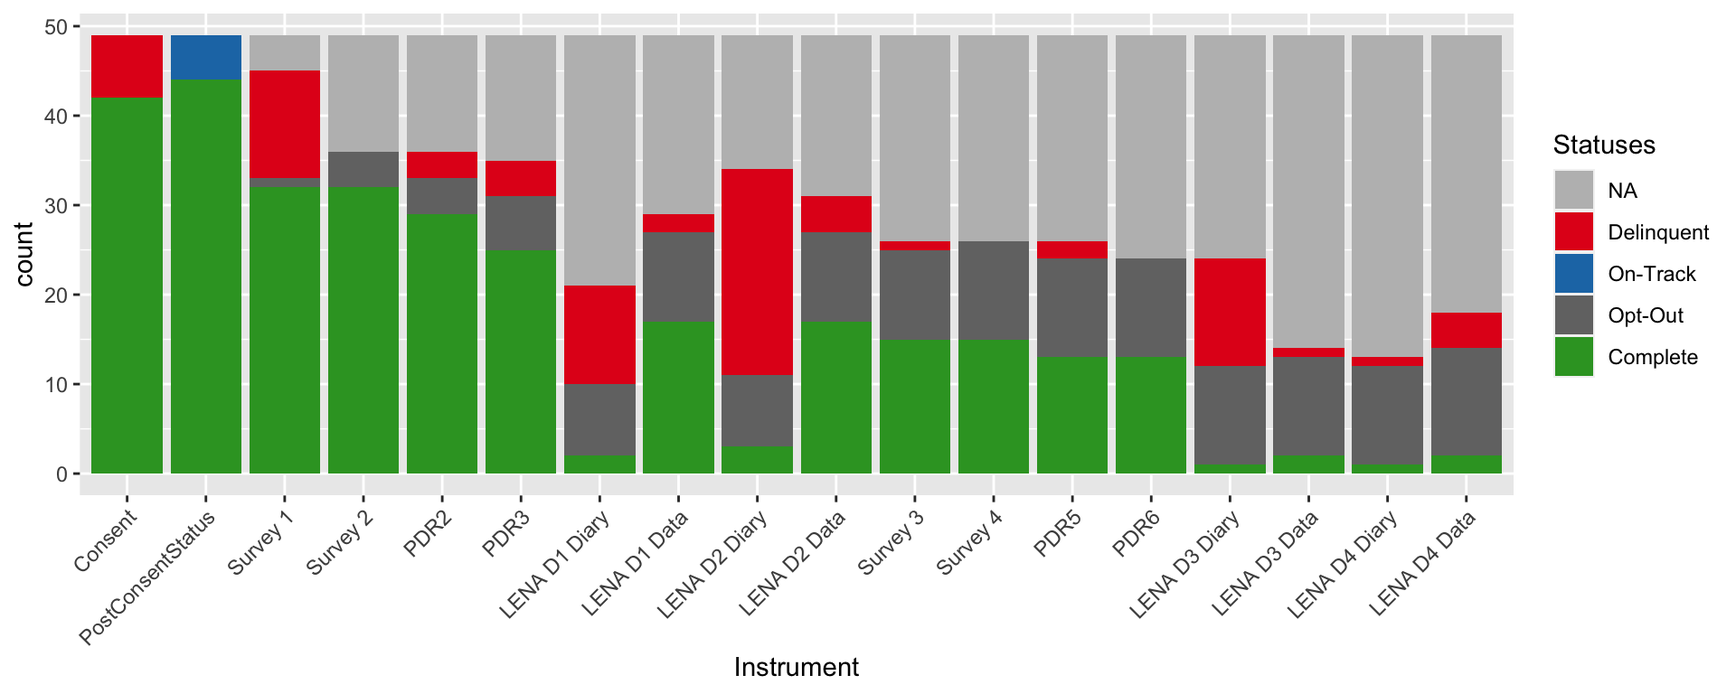
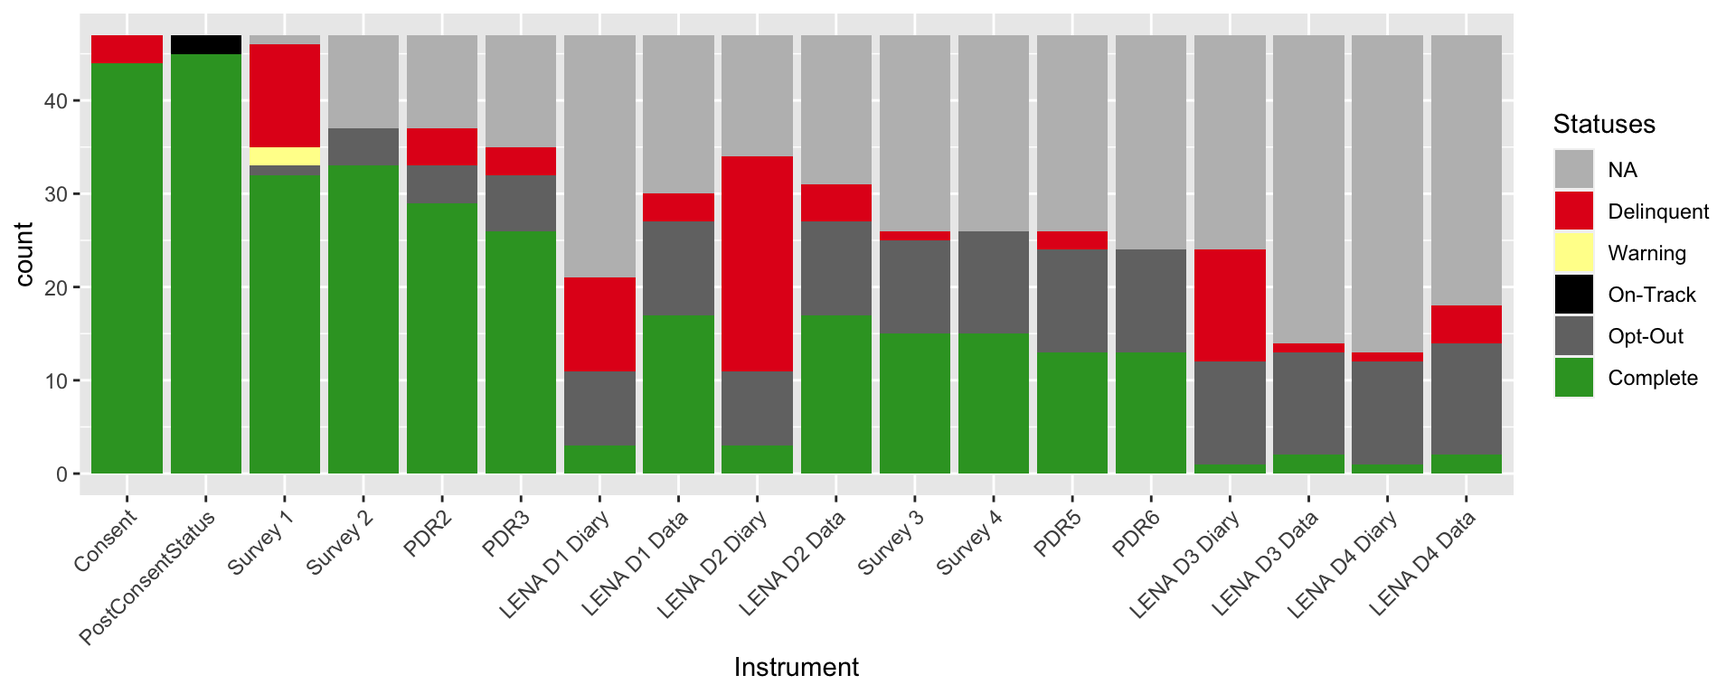
Update consents, and simplify chart code

diff --git a/_site/reports.html b/_site/reports.html
@@ -399,7 +399,7 @@ $(document).ready(function () {
 </div>
 <center>
 <div id="htmlwidget-2e17466358a46d139971" style="width:960px;height:384px;" class="plotly html-widget"></div>
-<script type="application/json" data-for="htmlwidget-2e17466358a46d139971">{"x":{"data":[{"x":[1594210295,1595855440,1595947129,1596636699,1597147658,1597402867,1597741838,1598436608,1598538979,1598541299,1598955066,1599570320,1600250194,1600255992,1600355481,1600863340,1601302221,1601566658,1602239005,1603368728,1603379955,1603977413,1604491899,1604751373,1605089156,1605170346,1605179257,1605721538,1605872792,1607016682,1607085091,1607472000,1607644800,1607687486,1609891200,1609897301,1611187200,1611878400,1612396800,1612396800,1612396800,1611878400,1611187200,1609897301,1609891200,1607687486,1607644800,1607472000,1607085091,1607016682,1605872792,1605721538,1605179257,1605170346,1605089156,1604751373,1604491899,1603977413,1603379955,1603368728,1602239005,1601566658,1601302221,1600863340,1600355481,1600255992,1600250194,1599570320,1598955066,1598541299,1598538979,1598436608,1597741838,1597402867,1597147658,1596636699,1595947129,1595855440,1594210295,1594210295],"y":[0,0,0,0,0,0,0,0,0,0,0,0,0,0,0,0,0,0,0,0,0,0,0,0,0,0,0,0,0,0,0,0,0,0,0,0,0,0,0,0,39,38,37,36,35,34,33,32,31,30,29,28,27,26,25,24,23,22,21,20,19,18,17,16,15,14,13,12,11,10,9,8,7,6,5,4,3,2,1,0],"text":["InformedConsent: 2020-07-08 19:11:35<br />Cumulative:  1","InformedConsent: 2020-07-27 20:10:40<br />Cumulative:  2","InformedConsent: 2020-07-28 21:38:49<br />Cumulative:  3","InformedConsent: 2020-08-05 21:11:39<br />Cumulative:  4","InformedConsent: 2020-08-11 19:07:38<br />Cumulative:  5","InformedConsent: 2020-08-14 18:01:07<br />Cumulative:  6","InformedConsent: 2020-08-18 16:10:38<br />Cumulative:  7","InformedConsent: 2020-08-26 17:10:08<br />Cumulative:  8","InformedConsent: 2020-08-27 21:36:19<br />Cumulative:  9","InformedConsent: 2020-08-27 22:14:59<br />Cumulative: 10","InformedConsent: 2020-09-01 17:11:06<br />Cumulative: 11","InformedConsent: 2020-09-08 20:05:20<br />Cumulative: 12","InformedConsent: 2020-09-16 16:56:34<br />Cumulative: 13","InformedConsent: 2020-09-16 18:33:12<br />Cumulative: 14","InformedConsent: 2020-09-17 22:11:21<br />Cumulative: 15","InformedConsent: 2020-09-23 19:15:40<br />Cumulative: 16","InformedConsent: 2020-09-28 21:10:21<br />Cumulative: 17","InformedConsent: 2020-10-01 22:37:38<br />Cumulative: 18","InformedConsent: 2020-10-09 17:23:25<br />Cumulative: 19","InformedConsent: 2020-10-22 19:12:08<br />Cumulative: 20","InformedConsent: 2020-10-22 22:19:15<br />Cumulative: 21","InformedConsent: 2020-10-29 20:16:53<br />Cumulative: 22","InformedConsent: 2020-11-04 20:11:39<br />Cumulative: 23","InformedConsent: 2020-11-07 20:16:13<br />Cumulative: 24","InformedConsent: 2020-11-11 18:05:56<br />Cumulative: 25","InformedConsent: 2020-11-12 16:39:06<br />Cumulative: 26","InformedConsent: 2020-11-12 19:07:37<br />Cumulative: 27","InformedConsent: 2020-11-19 01:45:38<br />Cumulative: 28","InformedConsent: 2020-11-20 19:46:32<br />Cumulative: 29","InformedConsent: 2020-12-04 01:31:22<br />Cumulative: 30","InformedConsent: 2020-12-04 20:31:31<br />Cumulative: 31","InformedConsent: 2020-12-09 08:00:00<br />Cumulative: 32","InformedConsent: 2020-12-11 08:00:00<br />Cumulative: 33","InformedConsent: 2020-12-11 19:51:26<br />Cumulative: 34","InformedConsent: 2021-01-06 08:00:00<br />Cumulative: 35","InformedConsent: 2021-01-06 09:41:41<br />Cumulative: 36","InformedConsent: 2021-01-21 08:00:00<br />Cumulative: 37","InformedConsent: 2021-01-29 08:00:00<br />Cumulative: 38","InformedConsent: 2021-02-04 08:00:00<br />Cumulative: 39","InformedConsent: 2021-02-04 08:00:00<br />Cumulative: 39","InformedConsent: 2021-02-04 08:00:00<br />Cumulative: 39","InformedConsent: 2021-01-29 08:00:00<br />Cumulative: 38","InformedConsent: 2021-01-21 08:00:00<br />Cumulative: 37","InformedConsent: 2021-01-06 09:41:41<br />Cumulative: 36","InformedConsent: 2021-01-06 08:00:00<br />Cumulative: 35","InformedConsent: 2020-12-11 19:51:26<br />Cumulative: 34","InformedConsent: 2020-12-11 08:00:00<br />Cumulative: 33","InformedConsent: 2020-12-09 08:00:00<br />Cumulative: 32","InformedConsent: 2020-12-04 20:31:31<br />Cumulative: 31","InformedConsent: 2020-12-04 01:31:22<br />Cumulative: 30","InformedConsent: 2020-11-20 19:46:32<br />Cumulative: 29","InformedConsent: 2020-11-19 01:45:38<br />Cumulative: 28","InformedConsent: 2020-11-12 19:07:37<br />Cumulative: 27","InformedConsent: 2020-11-12 16:39:06<br />Cumulative: 26","InformedConsent: 2020-11-11 18:05:56<br />Cumulative: 25","InformedConsent: 2020-11-07 20:16:13<br />Cumulative: 24","InformedConsent: 2020-11-04 20:11:39<br />Cumulative: 23","InformedConsent: 2020-10-29 20:16:53<br />Cumulative: 22","InformedConsent: 2020-10-22 22:19:15<br />Cumulative: 21","InformedConsent: 2020-10-22 19:12:08<br />Cumulative: 20","InformedConsent: 2020-10-09 17:23:25<br />Cumulative: 19","InformedConsent: 2020-10-01 22:37:38<br />Cumulative: 18","InformedConsent: 2020-09-28 21:10:21<br />Cumulative: 17","InformedConsent: 2020-09-23 19:15:40<br />Cumulative: 16","InformedConsent: 2020-09-17 22:11:21<br />Cumulative: 15","InformedConsent: 2020-09-16 18:33:12<br />Cumulative: 14","InformedConsent: 2020-09-16 16:56:34<br />Cumulative: 13","InformedConsent: 2020-09-08 20:05:20<br />Cumulative: 12","InformedConsent: 2020-09-01 17:11:06<br />Cumulative: 11","InformedConsent: 2020-08-27 22:14:59<br />Cumulative: 10","InformedConsent: 2020-08-27 21:36:19<br />Cumulative:  9","InformedConsent: 2020-08-26 17:10:08<br />Cumulative:  8","InformedConsent: 2020-08-18 16:10:38<br />Cumulative:  7","InformedConsent: 2020-08-14 18:01:07<br />Cumulative:  6","InformedConsent: 2020-08-11 19:07:38<br />Cumulative:  5","InformedConsent: 2020-08-05 21:11:39<br />Cumulative:  4","InformedConsent: 2020-07-28 21:38:49<br />Cumulative:  3","InformedConsent: 2020-07-27 20:10:40<br />Cumulative:  2","InformedConsent: 2020-07-08 19:11:35<br />Cumulative:  1","InformedConsent: 2020-07-08 19:11:35<br />Cumulative:  1"],"type":"scatter","mode":"lines","line":{"width":1.88976377952756,"color":"transparent","dash":"solid"},"fill":"toself","fillcolor":"rgba(105,179,162,0.5)","hoveron":"points","showlegend":false,"xaxis":"x","yaxis":"y","hoverinfo":"text","frame":null},{"x":[1594210295,1595855440,1595947129,1596636699,1597147658,1597402867,1597741838,1598436608,1598538979,1598541299,1598955066,1599570320,1600250194,1600255992,1600355481,1600863340,1601302221,1601566658,1602239005,1603368728,1603379955,1603977413,1604491899,1604751373,1605089156,1605170346,1605179257,1605721538,1605872792,1607016682,1607085091,1607472000,1607644800,1607687486,1609891200,1609897301,1611187200,1611878400,1612396800,null],"y":[1,2,3,4,5,6,7,8,9,10,11,12,13,14,15,16,17,18,19,20,21,22,23,24,25,26,27,28,29,30,31,32,33,34,35,36,37,38,39,48],"text":["InformedConsent: 2020-07-08 12:11:35<br />Cumulative:  1","InformedConsent: 2020-07-27 13:10:40<br />Cumulative:  2","InformedConsent: 2020-07-28 14:38:49<br />Cumulative:  3","InformedConsent: 2020-08-05 14:11:39<br />Cumulative:  4","InformedConsent: 2020-08-11 12:07:38<br />Cumulative:  5","InformedConsent: 2020-08-14 11:01:07<br />Cumulative:  6","InformedConsent: 2020-08-18 09:10:38<br />Cumulative:  7","InformedConsent: 2020-08-26 10:10:08<br />Cumulative:  8","InformedConsent: 2020-08-27 14:36:19<br />Cumulative:  9","InformedConsent: 2020-08-27 15:14:59<br />Cumulative: 10","InformedConsent: 2020-09-01 10:11:06<br />Cumulative: 11","InformedConsent: 2020-09-08 13:05:20<br />Cumulative: 12","InformedConsent: 2020-09-16 09:56:34<br />Cumulative: 13","InformedConsent: 2020-09-16 11:33:12<br />Cumulative: 14","InformedConsent: 2020-09-17 15:11:21<br />Cumulative: 15","InformedConsent: 2020-09-23 12:15:40<br />Cumulative: 16","InformedConsent: 2020-09-28 14:10:21<br />Cumulative: 17","InformedConsent: 2020-10-01 15:37:38<br />Cumulative: 18","InformedConsent: 2020-10-09 10:23:25<br />Cumulative: 19","InformedConsent: 2020-10-22 12:12:08<br />Cumulative: 20","InformedConsent: 2020-10-22 15:19:15<br />Cumulative: 21","InformedConsent: 2020-10-29 13:16:53<br />Cumulative: 22","InformedConsent: 2020-11-04 12:11:39<br />Cumulative: 23","InformedConsent: 2020-11-07 12:16:13<br />Cumulative: 24","InformedConsent: 2020-11-11 10:05:56<br />Cumulative: 25","InformedConsent: 2020-11-12 08:39:06<br />Cumulative: 26","InformedConsent: 2020-11-12 11:07:37<br />Cumulative: 27","InformedConsent: 2020-11-18 17:45:38<br />Cumulative: 28","InformedConsent: 2020-11-20 11:46:32<br />Cumulative: 29","InformedConsent: 2020-12-03 17:31:22<br />Cumulative: 30","InformedConsent: 2020-12-04 12:31:31<br />Cumulative: 31","InformedConsent: 2020-12-09 00:00:00<br />Cumulative: 32","InformedConsent: 2020-12-11 00:00:00<br />Cumulative: 33","InformedConsent: 2020-12-11 11:51:26<br />Cumulative: 34","InformedConsent: 2021-01-06 00:00:00<br />Cumulative: 35","InformedConsent: 2021-01-06 01:41:41<br />Cumulative: 36","InformedConsent: 2021-01-21 00:00:00<br />Cumulative: 37","InformedConsent: 2021-01-29 00:00:00<br />Cumulative: 38","InformedConsent: 2021-02-04 00:00:00<br />Cumulative: 39","InformedConsent: NA<br />Cumulative: 48"],"type":"scatter","mode":"lines","line":{"width":1.88976377952756,"color":"rgba(105,179,162,1)","dash":"solid"},"hoveron":"points","showlegend":false,"xaxis":"x","yaxis":"y","hoverinfo":"text","frame":null}],"layout":{"margin":{"t":65.813200498132,"r":39.8505603985056,"b":80.8634288086343,"l":70.9007887090079},"font":{"color":"rgba(0,0,0,1)","family":"Arial Narrow","size":15.2760481527605},"xaxis":{"domain":[0,1],"automargin":true,"type":"linear","autorange":false,"range":[1593300969.75,1613306125.25],"tickmode":"array","ticktext":["Jul","Oct","Jan"],"tickvals":[1593561600,1601510400,1609459200],"categoryorder":"array","categoryarray":["Jul","Oct","Jan"],"nticks":null,"ticks":"","tickcolor":null,"ticklen":3.81901203819012,"tickwidth":0,"showticklabels":true,"tickfont":{"color":"rgba(77,77,77,1)","family":"Arial Narrow","size":15.2760481527605},"tickangle":-0,"showline":false,"linecolor":null,"linewidth":0,"showgrid":true,"gridcolor":"rgba(204,204,204,1)","gridwidth":0.265670402656704,"zeroline":false,"anchor":"y","title":{"text":"Time","font":{"color":"rgba(0,0,0,1)","family":"Arial Narrow","size":11.9551681195517}},"hoverformat":".2f"},"yaxis":{"domain":[0,1],"automargin":true,"type":"linear","autorange":false,"range":[-2.4,50.4],"tickmode":"array","ticktext":["0","10","20","30","40","50"],"tickvals":[0,10,20,30,40,50],"categoryorder":"array","categoryarray":["0","10","20","30","40","50"],"nticks":null,"ticks":"","tickcolor":null,"ticklen":3.81901203819012,"tickwidth":0,"showticklabels":true,"tickfont":{"color":"rgba(77,77,77,1)","family":"Arial Narrow","size":15.2760481527605},"tickangle":-0,"showline":false,"linecolor":null,"linewidth":0,"showgrid":true,"gridcolor":"rgba(204,204,204,1)","gridwidth":0.265670402656704,"zeroline":false,"anchor":"x","title":{"text":"Dyad Count","font":{"color":"rgba(0,0,0,1)","family":"Arial Narrow","size":11.9551681195517}},"hoverformat":".2f"},"shapes":[{"type":"rect","fillcolor":null,"line":{"color":null,"width":0,"linetype":[]},"yref":"paper","xref":"paper","x0":0,"x1":1,"y0":0,"y1":1}],"showlegend":false,"legend":{"bgcolor":null,"bordercolor":null,"borderwidth":0,"font":{"color":"rgba(0,0,0,1)","family":"Arial Narrow","size":12.2208385222084}},"hovermode":"closest","barmode":"relative"},"config":{"doubleClick":"reset","showSendToCloud":false},"source":"A","attrs":{"39827eefb3e0":{"x":{},"y":{},"type":"scatter"},"39822b0a783b":{"x":{},"y":{}}},"cur_data":"39827eefb3e0","visdat":{"39827eefb3e0":["function (y) ","x"],"39822b0a783b":["function (y) ","x"]},"highlight":{"on":"plotly_click","persistent":false,"dynamic":false,"selectize":false,"opacityDim":0.2,"selected":{"opacity":1},"debounce":0},"shinyEvents":["plotly_hover","plotly_click","plotly_selected","plotly_relayout","plotly_brushed","plotly_brushing","plotly_clickannotation","plotly_doubleclick","plotly_deselect","plotly_afterplot","plotly_sunburstclick"],"base_url":"https://plot.ly"},"evals":[],"jsHooks":[]}</script><img src="reports_files/figure-html/SEAL%20Conditions%20Plot-2.png" width="960" />
+<script type="application/json" data-for="htmlwidget-2e17466358a46d139971">{"x":{"data":[{"x":[1594210295,1595855440,1595947129,1596636699,1597147658,1597190400,1597276800,1597402867,1598436608,1598538979,1598541299,1598955066,1599570320,1600250194,1600255992,1600300800,1600355481,1600387200,1600863340,1601302221,1601566658,1602239005,1603368728,1603379955,1603670400,1603977413,1604491899,1604751373,1605089156,1605179257,1605721538,1605872792,1607040000,1607472000,1607644800,1607687486,1609891200,1609897301,1611187200,1611878400,1612396800,1612396800,1612396800,1611878400,1611187200,1609897301,1609891200,1607687486,1607644800,1607472000,1607040000,1605872792,1605721538,1605179257,1605089156,1604751373,1604491899,1603977413,1603670400,1603379955,1603368728,1602239005,1601566658,1601302221,1600863340,1600387200,1600355481,1600300800,1600255992,1600250194,1599570320,1598955066,1598541299,1598538979,1598436608,1597402867,1597276800,1597190400,1597147658,1596636699,1595947129,1595855440,1594210295,1594210295],"y":[0,0,0,0,0,0,0,0,0,0,0,0,0,0,0,0,0,0,0,0,0,0,0,0,0,0,0,0,0,0,0,0,0,0,0,0,0,0,0,0,0,0,42,41,40,39,38,37,36,35,34,33,32,31,30,29,28,27,26,25,24,23,22,21,20,19,18,17,16,15,14,13,12,11,10,9,8,6,5,4,3,2,1,0],"text":["InformedConsent: 2020-07-08 19:11:35<br />Cumulative:  1","InformedConsent: 2020-07-27 20:10:40<br />Cumulative:  2","InformedConsent: 2020-07-28 21:38:49<br />Cumulative:  3","InformedConsent: 2020-08-05 21:11:39<br />Cumulative:  4","InformedConsent: 2020-08-11 19:07:38<br />Cumulative:  5","InformedConsent: 2020-08-12 07:00:00<br />Cumulative:  6","InformedConsent: 2020-08-13 07:00:00<br />Cumulative:  8","InformedConsent: 2020-08-14 18:01:07<br />Cumulative:  9","InformedConsent: 2020-08-26 17:10:08<br />Cumulative: 10","InformedConsent: 2020-08-27 21:36:19<br />Cumulative: 11","InformedConsent: 2020-08-27 22:14:59<br />Cumulative: 12","InformedConsent: 2020-09-01 17:11:06<br />Cumulative: 13","InformedConsent: 2020-09-08 20:05:20<br />Cumulative: 14","InformedConsent: 2020-09-16 16:56:34<br />Cumulative: 15","InformedConsent: 2020-09-16 18:33:12<br />Cumulative: 16","InformedConsent: 2020-09-17 07:00:00<br />Cumulative: 17","InformedConsent: 2020-09-17 22:11:21<br />Cumulative: 18","InformedConsent: 2020-09-18 07:00:00<br />Cumulative: 19","InformedConsent: 2020-09-23 19:15:40<br />Cumulative: 20","InformedConsent: 2020-09-28 21:10:21<br />Cumulative: 21","InformedConsent: 2020-10-01 22:37:38<br />Cumulative: 22","InformedConsent: 2020-10-09 17:23:25<br />Cumulative: 23","InformedConsent: 2020-10-22 19:12:08<br />Cumulative: 24","InformedConsent: 2020-10-22 22:19:15<br />Cumulative: 25","InformedConsent: 2020-10-26 07:00:00<br />Cumulative: 26","InformedConsent: 2020-10-29 20:16:53<br />Cumulative: 27","InformedConsent: 2020-11-04 20:11:39<br />Cumulative: 28","InformedConsent: 2020-11-07 20:16:13<br />Cumulative: 29","InformedConsent: 2020-11-11 18:05:56<br />Cumulative: 30","InformedConsent: 2020-11-12 19:07:37<br />Cumulative: 31","InformedConsent: 2020-11-19 01:45:38<br />Cumulative: 32","InformedConsent: 2020-11-20 19:46:32<br />Cumulative: 33","InformedConsent: 2020-12-04 08:00:00<br />Cumulative: 34","InformedConsent: 2020-12-09 08:00:00<br />Cumulative: 35","InformedConsent: 2020-12-11 08:00:00<br />Cumulative: 36","InformedConsent: 2020-12-11 19:51:26<br />Cumulative: 37","InformedConsent: 2021-01-06 08:00:00<br />Cumulative: 38","InformedConsent: 2021-01-06 09:41:41<br />Cumulative: 39","InformedConsent: 2021-01-21 08:00:00<br />Cumulative: 40","InformedConsent: 2021-01-29 08:00:00<br />Cumulative: 41","InformedConsent: 2021-02-04 08:00:00<br />Cumulative: 42","InformedConsent: 2021-02-04 08:00:00<br />Cumulative: 42","InformedConsent: 2021-02-04 08:00:00<br />Cumulative: 42","InformedConsent: 2021-01-29 08:00:00<br />Cumulative: 41","InformedConsent: 2021-01-21 08:00:00<br />Cumulative: 40","InformedConsent: 2021-01-06 09:41:41<br />Cumulative: 39","InformedConsent: 2021-01-06 08:00:00<br />Cumulative: 38","InformedConsent: 2020-12-11 19:51:26<br />Cumulative: 37","InformedConsent: 2020-12-11 08:00:00<br />Cumulative: 36","InformedConsent: 2020-12-09 08:00:00<br />Cumulative: 35","InformedConsent: 2020-12-04 08:00:00<br />Cumulative: 34","InformedConsent: 2020-11-20 19:46:32<br />Cumulative: 33","InformedConsent: 2020-11-19 01:45:38<br />Cumulative: 32","InformedConsent: 2020-11-12 19:07:37<br />Cumulative: 31","InformedConsent: 2020-11-11 18:05:56<br />Cumulative: 30","InformedConsent: 2020-11-07 20:16:13<br />Cumulative: 29","InformedConsent: 2020-11-04 20:11:39<br />Cumulative: 28","InformedConsent: 2020-10-29 20:16:53<br />Cumulative: 27","InformedConsent: 2020-10-26 07:00:00<br />Cumulative: 26","InformedConsent: 2020-10-22 22:19:15<br />Cumulative: 25","InformedConsent: 2020-10-22 19:12:08<br />Cumulative: 24","InformedConsent: 2020-10-09 17:23:25<br />Cumulative: 23","InformedConsent: 2020-10-01 22:37:38<br />Cumulative: 22","InformedConsent: 2020-09-28 21:10:21<br />Cumulative: 21","InformedConsent: 2020-09-23 19:15:40<br />Cumulative: 20","InformedConsent: 2020-09-18 07:00:00<br />Cumulative: 19","InformedConsent: 2020-09-17 22:11:21<br />Cumulative: 18","InformedConsent: 2020-09-17 07:00:00<br />Cumulative: 17","InformedConsent: 2020-09-16 18:33:12<br />Cumulative: 16","InformedConsent: 2020-09-16 16:56:34<br />Cumulative: 15","InformedConsent: 2020-09-08 20:05:20<br />Cumulative: 14","InformedConsent: 2020-09-01 17:11:06<br />Cumulative: 13","InformedConsent: 2020-08-27 22:14:59<br />Cumulative: 12","InformedConsent: 2020-08-27 21:36:19<br />Cumulative: 11","InformedConsent: 2020-08-26 17:10:08<br />Cumulative: 10","InformedConsent: 2020-08-14 18:01:07<br />Cumulative:  9","InformedConsent: 2020-08-13 07:00:00<br />Cumulative:  8","InformedConsent: 2020-08-12 07:00:00<br />Cumulative:  6","InformedConsent: 2020-08-11 19:07:38<br />Cumulative:  5","InformedConsent: 2020-08-05 21:11:39<br />Cumulative:  4","InformedConsent: 2020-07-28 21:38:49<br />Cumulative:  3","InformedConsent: 2020-07-27 20:10:40<br />Cumulative:  2","InformedConsent: 2020-07-08 19:11:35<br />Cumulative:  1","InformedConsent: 2020-07-08 19:11:35<br />Cumulative:  1"],"type":"scatter","mode":"lines","line":{"width":1.88976377952756,"color":"transparent","dash":"solid"},"fill":"toself","fillcolor":"rgba(105,179,162,0.5)","hoveron":"points","showlegend":false,"xaxis":"x","yaxis":"y","hoverinfo":"text","frame":null},{"x":[1594210295,1595855440,1595947129,1596636699,1597147658,1597190400,1597276800,1597402867,1598436608,1598538979,1598541299,1598955066,1599570320,1600250194,1600255992,1600300800,1600355481,1600387200,1600863340,1601302221,1601566658,1602239005,1603368728,1603379955,1603670400,1603977413,1604491899,1604751373,1605089156,1605179257,1605721538,1605872792,1607040000,1607472000,1607644800,1607687486,1609891200,1609897301,1611187200,1611878400,1612396800,null],"y":[1,2,3,4,5,6,8,9,10,11,12,13,14,15,16,17,18,19,20,21,22,23,24,25,26,27,28,29,30,31,32,33,34,35,36,37,38,39,40,41,42,48],"text":["InformedConsent: 2020-07-08 12:11:35<br />Cumulative:  1","InformedConsent: 2020-07-27 13:10:40<br />Cumulative:  2","InformedConsent: 2020-07-28 14:38:49<br />Cumulative:  3","InformedConsent: 2020-08-05 14:11:39<br />Cumulative:  4","InformedConsent: 2020-08-11 12:07:38<br />Cumulative:  5","InformedConsent: 2020-08-12 00:00:00<br />Cumulative:  6","InformedConsent: 2020-08-13 00:00:00<br />Cumulative:  8","InformedConsent: 2020-08-14 11:01:07<br />Cumulative:  9","InformedConsent: 2020-08-26 10:10:08<br />Cumulative: 10","InformedConsent: 2020-08-27 14:36:19<br />Cumulative: 11","InformedConsent: 2020-08-27 15:14:59<br />Cumulative: 12","InformedConsent: 2020-09-01 10:11:06<br />Cumulative: 13","InformedConsent: 2020-09-08 13:05:20<br />Cumulative: 14","InformedConsent: 2020-09-16 09:56:34<br />Cumulative: 15","InformedConsent: 2020-09-16 11:33:12<br />Cumulative: 16","InformedConsent: 2020-09-17 00:00:00<br />Cumulative: 17","InformedConsent: 2020-09-17 15:11:21<br />Cumulative: 18","InformedConsent: 2020-09-18 00:00:00<br />Cumulative: 19","InformedConsent: 2020-09-23 12:15:40<br />Cumulative: 20","InformedConsent: 2020-09-28 14:10:21<br />Cumulative: 21","InformedConsent: 2020-10-01 15:37:38<br />Cumulative: 22","InformedConsent: 2020-10-09 10:23:25<br />Cumulative: 23","InformedConsent: 2020-10-22 12:12:08<br />Cumulative: 24","InformedConsent: 2020-10-22 15:19:15<br />Cumulative: 25","InformedConsent: 2020-10-26 00:00:00<br />Cumulative: 26","InformedConsent: 2020-10-29 13:16:53<br />Cumulative: 27","InformedConsent: 2020-11-04 12:11:39<br />Cumulative: 28","InformedConsent: 2020-11-07 12:16:13<br />Cumulative: 29","InformedConsent: 2020-11-11 10:05:56<br />Cumulative: 30","InformedConsent: 2020-11-12 11:07:37<br />Cumulative: 31","InformedConsent: 2020-11-18 17:45:38<br />Cumulative: 32","InformedConsent: 2020-11-20 11:46:32<br />Cumulative: 33","InformedConsent: 2020-12-04 00:00:00<br />Cumulative: 34","InformedConsent: 2020-12-09 00:00:00<br />Cumulative: 35","InformedConsent: 2020-12-11 00:00:00<br />Cumulative: 36","InformedConsent: 2020-12-11 11:51:26<br />Cumulative: 37","InformedConsent: 2021-01-06 00:00:00<br />Cumulative: 38","InformedConsent: 2021-01-06 01:41:41<br />Cumulative: 39","InformedConsent: 2021-01-21 00:00:00<br />Cumulative: 40","InformedConsent: 2021-01-29 00:00:00<br />Cumulative: 41","InformedConsent: 2021-02-04 00:00:00<br />Cumulative: 42","InformedConsent: NA<br />Cumulative: 48"],"type":"scatter","mode":"lines","line":{"width":1.88976377952756,"color":"rgba(105,179,162,1)","dash":"solid"},"hoveron":"points","showlegend":false,"xaxis":"x","yaxis":"y","hoverinfo":"text","frame":null}],"layout":{"margin":{"t":65.813200498132,"r":39.8505603985056,"b":80.8634288086343,"l":70.9007887090079},"font":{"color":"rgba(0,0,0,1)","family":"Arial Narrow","size":15.2760481527605},"xaxis":{"domain":[0,1],"automargin":true,"type":"linear","autorange":false,"range":[1593300969.75,1613306125.25],"tickmode":"array","ticktext":["Jul","Oct","Jan"],"tickvals":[1593561600,1601510400,1609459200],"categoryorder":"array","categoryarray":["Jul","Oct","Jan"],"nticks":null,"ticks":"","tickcolor":null,"ticklen":3.81901203819012,"tickwidth":0,"showticklabels":true,"tickfont":{"color":"rgba(77,77,77,1)","family":"Arial Narrow","size":15.2760481527605},"tickangle":-0,"showline":false,"linecolor":null,"linewidth":0,"showgrid":true,"gridcolor":"rgba(204,204,204,1)","gridwidth":0.265670402656704,"zeroline":false,"anchor":"y","title":{"text":"Time","font":{"color":"rgba(0,0,0,1)","family":"Arial Narrow","size":11.9551681195517}},"hoverformat":".2f"},"yaxis":{"domain":[0,1],"automargin":true,"type":"linear","autorange":false,"range":[-2.4,50.4],"tickmode":"array","ticktext":["0","10","20","30","40","50"],"tickvals":[0,10,20,30,40,50],"categoryorder":"array","categoryarray":["0","10","20","30","40","50"],"nticks":null,"ticks":"","tickcolor":null,"ticklen":3.81901203819012,"tickwidth":0,"showticklabels":true,"tickfont":{"color":"rgba(77,77,77,1)","family":"Arial Narrow","size":15.2760481527605},"tickangle":-0,"showline":false,"linecolor":null,"linewidth":0,"showgrid":true,"gridcolor":"rgba(204,204,204,1)","gridwidth":0.265670402656704,"zeroline":false,"anchor":"x","title":{"text":"Dyad Count","font":{"color":"rgba(0,0,0,1)","family":"Arial Narrow","size":11.9551681195517}},"hoverformat":".2f"},"shapes":[{"type":"rect","fillcolor":null,"line":{"color":null,"width":0,"linetype":[]},"yref":"paper","xref":"paper","x0":0,"x1":1,"y0":0,"y1":1}],"showlegend":false,"legend":{"bgcolor":null,"bordercolor":null,"borderwidth":0,"font":{"color":"rgba(0,0,0,1)","family":"Arial Narrow","size":12.2208385222084}},"hovermode":"closest","barmode":"relative"},"config":{"doubleClick":"reset","showSendToCloud":false},"source":"A","attrs":{"912116bcb142":{"x":{},"y":{},"type":"scatter"},"91213e196fb7":{"x":{},"y":{}}},"cur_data":"912116bcb142","visdat":{"912116bcb142":["function (y) ","x"],"91213e196fb7":["function (y) ","x"]},"highlight":{"on":"plotly_click","persistent":false,"dynamic":false,"selectize":false,"opacityDim":0.2,"selected":{"opacity":1},"debounce":0},"shinyEvents":["plotly_hover","plotly_click","plotly_selected","plotly_relayout","plotly_brushed","plotly_brushing","plotly_clickannotation","plotly_doubleclick","plotly_deselect","plotly_afterplot","plotly_sunburstclick"],"base_url":"https://plot.ly"},"evals":[],"jsHooks":[]}</script><img src="reports_files/figure-html/SEAL%20Conditions%20Plot-2.png" width="960" />
 <center>
 <div>
 

diff --git a/_site/enrollment.html b/_site/enrollment.html
@@ -389,21 +389,21 @@ $(document).ready(function () {
 <div class="btn-group btn-group-justified">
 <div class="btn-group">
 <button type="button" class="btn btn-outline-dark .w-100">
-<strong>Consents Complete</strong><br>42
+<strong>Consents Complete</strong><br>44
 </button>
 </div>
 <div class="btn-group">
 <button type="button" class="btn btn-outline-dark .w-100">
-<strong>Consents In Progress</strong><br>7
+<strong>Consents In Progress</strong><br>3
 </button>
 </div>
 </div>
 <div class="btn-group btn-group-justified">
 <div class="btn-group">
-<a href="#" class="btn btn-default"><strong>Post-Consent Complete</strong><br>37</a>
+<a href="#" class="btn btn-default"><strong>Post-Consent Complete</strong><br>42</a>
 </div>
 <div class="btn-group">
-<a href="#" class="btn btn-default"><strong>Post-Consent In Progress</strong><br>5</a>
+<a href="#" class="btn btn-default"><strong>Post-Consent In Progress</strong><br>2</a>
 </div>
 </div>
 <div class="btn-group btn-group-justified">
@@ -411,7 +411,7 @@ $(document).ready(function () {
 <a href="#" class="btn btn-primary"><strong>Wave 1 Complete</strong><br>3</a>
 </div>
 <div class="btn-group">
-<a href="#" class="btn btn-primary"><strong>Wave 1 In Progress</strong><br>24</a>
+<a href="#" class="btn btn-primary"><strong>Wave 1 In Progress</strong><br>26</a>
 </div>
 <div class="btn-group">
 <a href="#" class="btn btn-primary"><strong>Wave 1 Drop-Outs</strong><br> 9 </a>
@@ -455,7 +455,7 @@ $(document).ready(function () {
 <a href="#" class="btn btn-danger"><strong>Total Complete with Study</strong><br>TBD</a>
 </div>
 <div class="btn-group">
-<a href="#" class="btn btn-danger"><strong>Total In Progress</strong><br> 38 </a>
+<a href="#" class="btn btn-danger"><strong>Total In Progress</strong><br> 40 </a>
 </div>
 <div class="btn-group">
 <a href="#" class="btn btn-danger"><strong>Total Drop-Outs</strong><br>11</a>
@@ -502,7 +502,7 @@ NA
 Consent
 </td>
 <td style="text-align:right;">
-42
+44
 </td>
 <td style="text-align:right;">
 0
@@ -514,7 +514,7 @@ Consent
 0
 </td>
 <td style="text-align:right;">
-7
+3
 </td>
 <td style="text-align:right;">
 0
@@ -522,16 +522,16 @@ Consent
 </tr>
 <tr>
 <td style="text-align:left;">
-Post Consent
+PostConsentStatus
 </td>
 <td style="text-align:right;">
-44
+45
 </td>
 <td style="text-align:right;">
 0
 </td>
 <td style="text-align:right;">
-5
+2
 </td>
 <td style="text-align:right;">
 0
@@ -557,13 +557,13 @@ Survey 1
 0
 </td>
 <td style="text-align:right;">
-0
+2
 </td>
 <td style="text-align:right;">
-12
+11
 </td>
 <td style="text-align:right;">
-4
+1
 </td>
 </tr>
 <tr>
@@ -571,7 +571,7 @@ Survey 1
 Survey 2
 </td>
 <td style="text-align:right;">
-32
+33
 </td>
 <td style="text-align:right;">
 4
@@ -586,7 +586,7 @@ Survey 2
 0
 </td>
 <td style="text-align:right;">
-13
+10
 </td>
 </tr>
 <tr>
@@ -606,10 +606,10 @@ PDR2
 0
 </td>
 <td style="text-align:right;">
-3
+4
 </td>
 <td style="text-align:right;">
-13
+10
 </td>
 </tr>
 <tr>
@@ -617,7 +617,7 @@ PDR2
 PDR3
 </td>
 <td style="text-align:right;">
-25
+26
 </td>
 <td style="text-align:right;">
 6
@@ -629,10 +629,10 @@ PDR3
 0
 </td>
 <td style="text-align:right;">
-4
+3
 </td>
 <td style="text-align:right;">
-14
+12
 </td>
 </tr>
 <tr>
@@ -640,7 +640,7 @@ PDR3
 LENA D1 Diary
 </td>
 <td style="text-align:right;">
-2
+3
 </td>
 <td style="text-align:right;">
 8
@@ -652,10 +652,10 @@ LENA D1 Diary
 0
 </td>
 <td style="text-align:right;">
-11
+10
 </td>
 <td style="text-align:right;">
-28
+26
 </td>
 </tr>
 <tr>
@@ -675,10 +675,10 @@ LENA D1 Data
 0
 </td>
 <td style="text-align:right;">
-2
+3
 </td>
 <td style="text-align:right;">
-20
+17
 </td>
 </tr>
 <tr>
@@ -701,7 +701,7 @@ LENA D2 Diary
 23
 </td>
 <td style="text-align:right;">
-15
+13
 </td>
 </tr>
 <tr>
@@ -724,7 +724,7 @@ LENA D2 Data
 4
 </td>
 <td style="text-align:right;">
-18
+16
 </td>
 </tr>
 <tr>
@@ -747,7 +747,7 @@ Survey 3
 1
 </td>
 <td style="text-align:right;">
-23
+21
 </td>
 </tr>
 <tr>
@@ -770,7 +770,7 @@ Survey 4
 0
 </td>
 <td style="text-align:right;">
-23
+21
 </td>
 </tr>
 <tr>
@@ -793,7 +793,7 @@ PDR5
 2
 </td>
 <td style="text-align:right;">
-23
+21
 </td>
 </tr>
 <tr>
@@ -816,7 +816,7 @@ PDR6
 0
 </td>
 <td style="text-align:right;">
-25
+23
 </td>
 </tr>
 <tr>
@@ -839,7 +839,7 @@ LENA D3 Diary
 12
 </td>
 <td style="text-align:right;">
-25
+23
 </td>
 </tr>
 <tr>
@@ -862,7 +862,7 @@ LENA D3 Data
 1
 </td>
 <td style="text-align:right;">
-35
+33
 </td>
 </tr>
 <tr>
@@ -885,7 +885,7 @@ LENA D4 Diary
 1
 </td>
 <td style="text-align:right;">
-36
+34
 </td>
 </tr>
 <tr>
@@ -908,7 +908,7 @@ LENA D4 Data
 4
 </td>
 <td style="text-align:right;">
-31
+29
 </td>
 </tr>
 </tbody>
